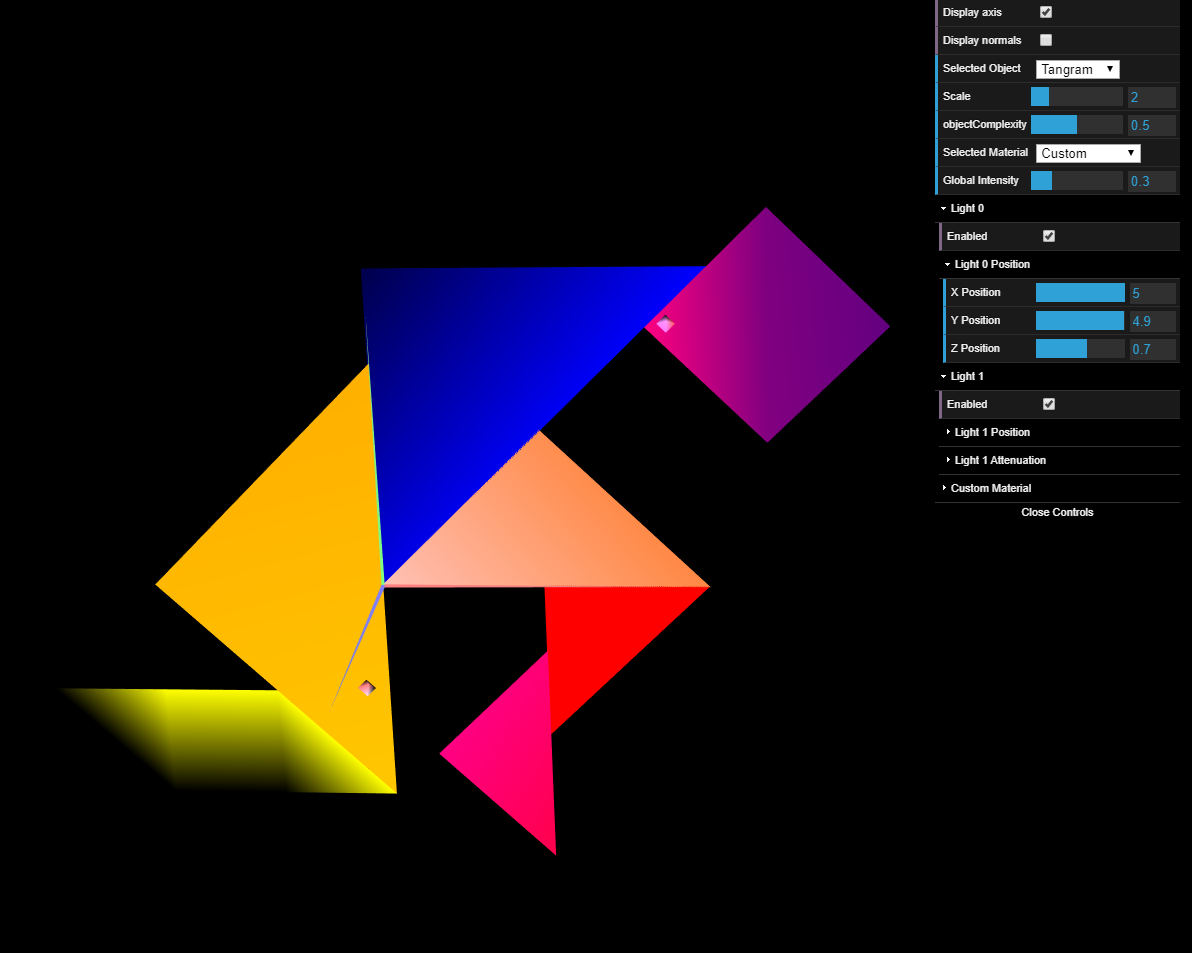
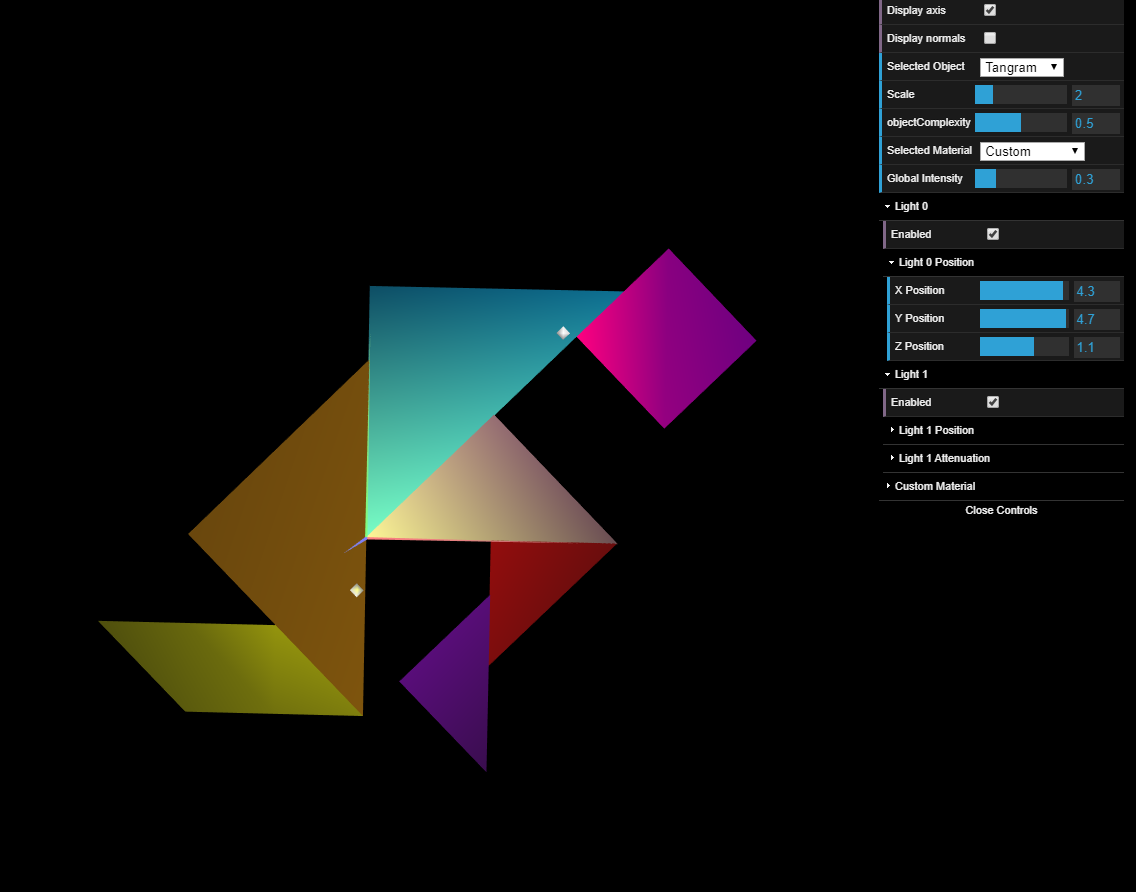
Final exe 3 changes, ready to send

Changed region(s): [[0.0616, 0.2119, 0.7394, 0.9081], [0.7702, 0.0, 1.0, 0.5751]]

diff --git a/ex3/ex3-t3g01-1/MyTangram.js b/ex3/ex3-t3g01-1/MyTangram.js
@@ -21,52 +21,52 @@ class MyTangram extends CGFobject {
     initMaterials(scene){
         // Green color
         this.green = new CGFappearance(scene);
-        this.green.setAmbient(0.0, 0.0, 0.0, 1.0);
-        this.green.setDiffuse(0,1,0,1);
-        this.green.setSpecular(0,1,0, 1.0);
-        this.green.setShininess(0);
+        this.green.setAmbient(0.1,0.1,0.1,1.0);
+        this.green.setDiffuse(0,1,0,1.0);
+        this.green.setSpecular(1,1,1,1.0);
+        this.green.setShininess(10.0);
 
         // Blue color
         this.blue = new CGFappearance(scene);
-        this.blue.setAmbient(0.0, 0.0, 0.0, 1.0);
-        this.blue.setDiffuse(0,0,1,1);
-        this.blue.setSpecular(0,0,1, 1.0);
-        this.blue.setShininess(0);
+        this.blue.setAmbient(0.1,0.1,0.1,1.0);
+        this.blue.setDiffuse(0,0.749*0.7,1*0.7,1.0);
+        this.blue.setSpecular(1,1,1,1.0);
+        this.blue.setShininess(10.0);
 
         // Pink color
         this.pink = new CGFappearance(scene);
-        this.pink.setAmbient(0.0, 0.0, 0.0, 1.0);
-        this.pink.setDiffuse(1, 102/255, 204/255,1);
-        this.pink.setSpecular(1, 102/255, 204/255, 1.0);
-        this.pink.setShininess(0);
+        this.pink.setAmbient(0.1,0.1,0.1,1.0);
+        this.pink.setDiffuse(1*0.7,0.714*0.7,0.757*0.7,1.0);
+        this.pink.setSpecular(1,1,1,0);
+        this.pink.setShininess(10.0);
 
         // orange color
         this.orange = new CGFappearance(scene);
-        this.orange.setAmbient(0.0, 0.0, 0.0, 1.0);
-        this.orange.setDiffuse(1, 128/255, 0, 1);
-        this.orange.setSpecular(1, 128/255, 0, 1.0);
-        this.orange.setShininess(0);
+        this.orange.setAmbient(0.1,0.1,0.1,1.0);
+        this.orange.setDiffuse(1*0.7,0.647*0.7,0,1.0);
+        this.orange.setSpecular(1,1,1,0);
+        this.orange.setShininess(10.0);
 
         // yellow color
         this.yellow = new CGFappearance(scene);
-        this.yellow.setAmbient(0.0, 0.0, 0.0, 1.0);
-        this.yellow.setDiffuse(1, 1, 0, 1);
-        this.yellow.setSpecular(1, 1, 0, 1.0);
-        this.yellow.setShininess(0);
+        this.yellow.setAmbient(0.1,0.1,0.1,1.0);
+        this.yellow.setDiffuse(1*0.7,1*0.7,0,1.0);
+        this.yellow.setSpecular(1,1,1,0);
+        this.yellow.setShininess(10.0);
 
         // red color
         this.red = new CGFappearance(scene);
-        this.red.setAmbient(0.0, 0.0, 0.0, 1.0);
-        this.red.setDiffuse(1, 0, 0, 1);
-        this.red.setSpecular(1, 0, 0, 1.0);
-        this.red.setShininess(0);
+        this.red.setAmbient(0.1,0.1,0.1,1.0);
+        this.red.setDiffuse(1*0.7,0,0,1.0);
+        this.red.setSpecular(1,1,1,0);
+        this.red.setShininess(10.0);
 
         // purple color
         this.purple = new CGFappearance(scene);
-        this.purple.setAmbient(0.0, 0.0, 0.0, 1.0);
-        this.purple.setDiffuse(204/255, 0, 204/255, 1);
-        this.purple.setSpecular(204/255, 0, 204/255, 1.0);
-        this.purple.setShininess(0);
+        this.purple.setAmbient(0.1,0.1,0.1,1.0);
+        this.purple.setDiffuse(0.58*0.7,0,0.827*0.7,1.0);
+        this.purple.setSpecular(1,1,1,1.0);
+        this.purple.setShininess(10.0);
     }
 
     display() {

diff --git a/ex3/ex3-t3g01-1/MyUnitCube.js b/ex3/ex3-t3g01-1/MyUnitCube.js
@@ -36,8 +36,6 @@ class MyUnitCube extends CGFobject {
             0.5, -0.5, -0.5,    //F 5
             -0.5, 0.5, -0.5,    //G 6
             -0.5, -0.5, -0.5,   //H 7
-
-            //0.5, 0, 0
         ];
 
         //Counter-clockwise reference of vertices
@@ -68,8 +66,8 @@ class MyUnitCube extends CGFobject {
         ];
 
         this.normals = [
-            0, 0, 1,
-            0, 0, 1,
+            -1, 0, 0,
+            -1, 0, 0,
             1, 0, 0,
             1, 0, 0,
             1, 0, 0,
@@ -86,16 +84,14 @@ class MyUnitCube extends CGFobject {
             0, 1, 0,
             0, -1, 0,
 
-            -1, 0, 0,
-            -1, 0, 0,
+            0, 0, 1,
+            0, 0, 1,
             0, 0, 1,
             0, 0, 1,
             0, 0, -1,
             0, 0, -1,
             0, 0, -1,
             0, 0, -1,
-
-            //1,0,0
         ];
 
         //The defined indices (and corresponding vertices)

diff --git a/ex3/MyTangram.js b/ex3/MyTangram.js
@@ -80,7 +80,7 @@ class MyTangram extends CGFobject {
         this.scene.pushMatrix();
         this.scene.multMatrix(tra);
         //this.scene.setDiffuse(0,1,0,0);
-        this.green.apply();
+        //this.green.apply();
         this.greenSquare.display();
         this.scene.popMatrix();
 
